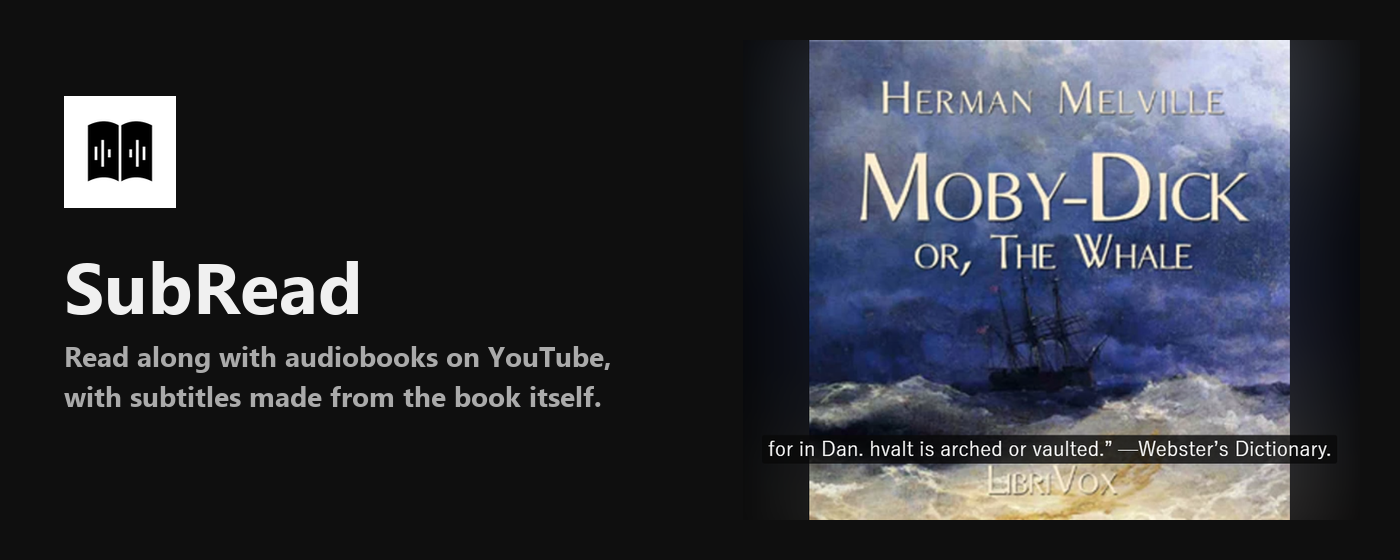
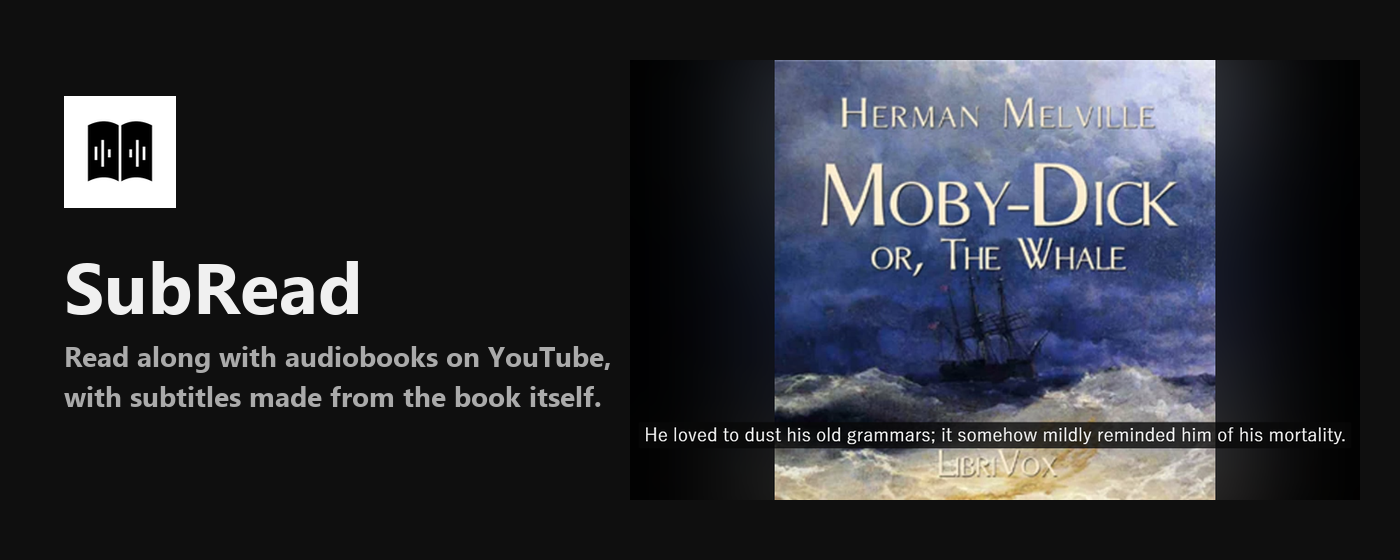
Show the 'He loved to dust his old grammars' line in the marquee tile

Changed region(s): [[0.4607, 0.0607, 0.9829, 0.9411]]

diff --git a/tools/graphics.py b/tools/graphics.py
@@ -37,10 +37,16 @@ def promo() -> None:
 
 def marquee() -> None:
     canvas = Image.new("RGB", (1400, 560), BG)
-    # The right side: the video area of a screenshot, with the book line on it.
-    shot = Image.open(OUT / "screenshot-1-moby-dick.png").convert("RGB").crop((230, 56, 1040, 686))
-    shot = shot.resize((round(shot.width * 480 / shot.height), 480), Image.LANCZOS)
-    canvas.paste(shot, (1400 - shot.width - 40, 40))
+    # The right side: the video area of screenshot 1. Screenshot 2 has the same frame, but its
+    # line is "He loved to dust his old grammars…" and its panel is open. Paste only the strip
+    # with that line over the line of screenshot 1.
+    box = (110, 56, 1155, 686)
+    strip = (box[0], 570, box[2], 616)
+    shot = Image.open(OUT / "screenshot-1-moby-dick.png").convert("RGB").crop(box)
+    line = Image.open(OUT / "screenshot-2-moby-dick-panel.png").convert("RGB").crop(strip)
+    shot.paste(line, (0, strip[1] - box[1]))
+    shot = shot.resize((round(shot.width * 440 / shot.height), 440), Image.LANCZOS)
+    canvas.paste(shot, (1400 - shot.width - 40, (560 - shot.height) // 2))
     draw = ImageDraw.Draw(canvas)
     i = icon(112)
     canvas.paste(i, (64, 96), i)
